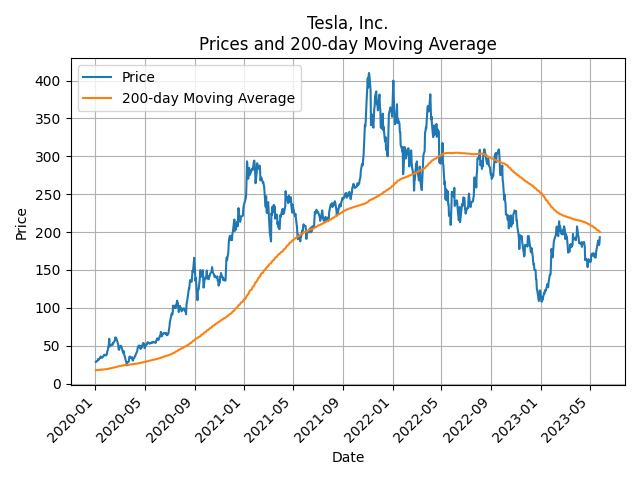
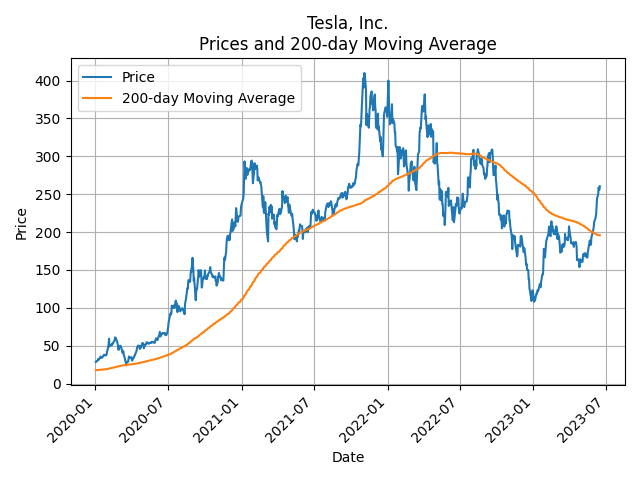
investment

diff --git a/investment.html b/investment.html
@@ -46,69 +46,124 @@
 								</header>
 								<!-- Lists -->
 								<h3>Introduction</h3>
-								<p>During every Chinese New Year, I receive Ang Bao money from my parents, grandparents, and other relatives and friends. I have been investing
-									this money in tech stocks such as Netflix, Tesla, Microsoft, Tencent, and others. Following the tech boom in 2020, I made significant profits.
-									However, I experienced a significant loss when the market underwent a drawdown towards the end of 2021.</p>
-								<p>To mitigate such drawdowns and participate in market rallies, I turned to YouTube for guidance. There are numerous stock trading videos that teach
-									strategies to avoid drawdowns and identify market rallies. One of the most popular tools recommended is the Simple Moving Average (SMA or MA) with a period
-									of 200 days. Many content creators advertised SMA 200 as a miracle, able to participate in the market rallies while avoid drawdowns. I was skeptical about that
-									and would like to build a backtest model to test this popular strategy using Python.</p>
-								<p>After carefully backtesting the SMA strategies, a clear disparity emerges. Investment videos, particularly those seeking to attract paying customers, often emphasize
-									a fabricated SMA strategy that showcases remarkably high returns. This can lead to unrealistic expectations. In contrast, the genuine SMA profit, which is rarely disclosed,
-									provides a more realistic perspective. These exaggerated claims underscore the importance of critically evaluating and scrutinizing investment advice.</p>
-								<h3>Method</h3>
-								<p>The Simple Moving Average (SMA or MA) trading strategy is a popular technical analysis approach used by traders to identify potential
-									trend reversals or entry/exit points in financial markets. The strategy involves calculating the average price of an asset over a specified
-									period of time and using it as a reference for making trading decisions.</p>
+								<p>During every Chinese New Year, I receive some money from my parents, grandparents, and other relatives and friends. I have been investing this money in technology stocks such as Apple, Tesla, Amazon, Microsoft, Tencent, and others. My simple investment strategy is to buy the stocks of the companies which a lot of us use the products of. Following the technology boom in 2020, I made significant profits. However, I experienced a significant loss when the market underwent a drawdown towards the end of 2021.</p>
+								<p>To mitigate such drawdowns and participate in market rallies, I turned to YouTube for guidance. There are numerous stock trading videos that teach strategies to avoid drawdowns and identify market rallies. One of the most popular tools recommended is the Simple Moving Average (SMA or MA) with a period of 200 days. Many content creators advertised SMA 200 as a miracle, able to participate in the market rallies while avoiding drawdowns. I was sceptical about that as it sounded too good to be true and I built a backtest model to test this popular strategy using Python.</p>
+								<p>After carefully backtesting the SMA strategies, a clear disparity emerges. Investment videos, particularly those seeking to attract paying customers, often emphasize a wrongly backtested SMA strategy that showcases remarkably high returns. This can lead to unrealistic expectations. In contrast, the correctly backtested SMA profit, which is rarely disclosed, provides a more realistic perspective. </p>
+								<p>I hope my careful research and backtest can help many investors become more careful while surrounded by much unsound paid investment advice. In addition, the backtest framework can be used for testing other trading strategies, or even apply AI models on it in the future. It again shows I become much more resourceful with the help of Python programming.</p>
+								<h3>Data and Method</h3>
+								<p>The Simple Moving Average (SMA or MA) trading strategy is a popular technical analysis approach used by traders to identify potential trend reversals or entry/exit points in financial markets. The strategy involves calculating the average price of an asset over a specified period and using it as a reference for making trading decisions.</p>
 								<p>Here's how the Simple Moving Average trading strategy typically works:</p>
 								<ol>
-									<li>Select a time period: Determine the time period for calculating the moving average. Common choices include 50 days, 100 days, or 200 days.
-										In this example, I choose 200 days.</li>
-									<li>Calculate the moving average: Add up the daily prices of the stock over the selected time period and divide it by the number of days to get the
-										average. This forms the moving average line.</li>
-									<li>Monitor the price movement: Compare the current price of the stock with the moving average line. If the price crosses above the moving average line,
-										it may indicate a bullish signal, suggesting a potential uptrend. Conversely, if the price crosses below the moving average line, it may suggest a
-										bearish signal, indicating a potential downtrend.</li>
-									<li>Make trading decisions: If the price crosses above the moving average line, you should buy the stock to participate in the market rally;
-										if the price crosses below the moving average line, you should sell the stock to avoid drawdown.</li>
+									<li>Select a time period: Determine the time period for calculating the moving average. Common choices include 50 days, 100 days, or 200 days. In this example, I choose 200 days.</li>
+									<li>Calculate the moving average: Add up the daily prices of the stock over the selected time period and divide it by the number of days to get the average. This forms the moving average line.</li>
+									<li>Monitor the price movement: Compare the current price of the stock with the moving average line. If the price crosses above the moving average line, it may indicate a positive signal, suggesting a potential uptrend. Conversely, if the price crosses below the moving average line, it may suggest a negative signal, indicating a potential downtrend.</li>
+									<li>Make trading decisions: If the price crosses above the moving average line, you should buy the stock to participate in the market rally; if the price crosses below the moving average line, you should sell the stock to avoid drawdown.</li>
 								</ol>
-								<h3>Data</h3>
-								<p>The yfinance package is a powerful tool in Python for accessing and downloading historical stock market data. It allows users to fetch data directly from
-									Yahoo Finance. To download stock data using yfinance, first, you need to install the yfinance package using pip or any other package manager. Once installed,
-									you can import the yfinance module in your Python script. To fetch stock data, simply
-									specify the ticker symbol for the desired stock and the desired time period. For example, you can retrieve historical data for Tesla by using the command:
-									data = yf.download('TSLA', start='2022-01-01', end='2022-12-31'). This will download the stock data for Tesla from January 1, 2022, to December 31, 2022.
-									The downloaded data can then be used for analysis, visualization, or any other tasks related to stock market research. </p>
+								<p>The yfinance (Yahoo Finance) package is a powerful tool in Python for downloading historical stock market data. It allows users to fetch data directly from Yahoo Finance. To illustrate, I show the prices of Tesla and Microsoft from 2020-01-01 to 2023-06-16.</p>
+								<!-- Image -->
+
+								<style>
+									.image-caption {
+									  text-align: center;
+									  font-style: italic;
+									  }
+								  </style>
+
+								  <div class="box alt">
+									<div class="row gtr-50 gtr-uniform">
+									  <div class="col-6">
+										<figure>
+										  <span class="image fit">
+											<img src="images/Tesla, Inc._prices.png" alt="" />
+										  </span>
+										</figure>
+									  </div>
+									  <div class="col-6">
+										<figure>
+										  <span class="image fit">
+											<img src="images/Microsoft Corporation_prices.png" alt="" />
+										  </span>
+										</figure>
+									  </div>
+									</div>
+								  </div>
 								<h3>Results</h3>
-								<div class="image main"><img src="images/Netflix, Inc._200ma.png" alt="" /></div>
-								<p>In the plot displayed above, I have depicted the daily price movement of my preferred stock, Netflix, from January 2020 to May 2023. Additionally, the 200-day moving
-									average line has been included in the graph. By observing the plot, it becomes evident that when the stock prices rise above the moving average line from beginning of 2020
-									to end of 2021 and from end of 2022 to May 2023, it serves as a clear bullish signal, and you can make quite some money by holding this stock. Conversely, when the price
-									crosses below the moving average
-									line from end of 2021 to end 2022, it signifies a bearish signal, suggesting a potential drawdown, and you should sell this stock. Utilizing this approach, making investment
-									decisions becomes straightforward, and we can make a lot of profit. The strategy involves purchasing the stock when the price
-									is above the 200-day moving average line and selling it when the price drops below the same moving average line. </p>
-								<p>The following graph is what all these youtubers hope to achieve. The orange line represents the PnL of the SMA 200 strategy, while the blue line represents the PnL of the
-									buy-and-hold strategy. The buy-and-hold strategy simply means I keep the stock throughout this period, and it serves as a benchmark to assess any dynamic trading strategy.
-									As shown by the following plot, the moving average strategy makes significant profit than simply holding the stock. Thus, we always participate in the market rally and avoid market drawdown.
-									However, this performance line is not realistic and wrongly backtested. Thus, I name it as the fake SMA line as they are usually shown by many investment gurus in their YouTube videos. </p>
-								<div class="image main"><img src="images/Netflix, Inc._200ma_pnl1.png" alt="" /></div>
-								<p>After conducting a thorough backtest, the plot below illustrates the profit and loss (PnL) of the actual SMA 200 strategy. While the performance line still outperforms
-									the buy-and-hold strategy, it falls short of the performance depicted by the fake SMA performance line. This indicates that the real SMA 200 strategy does not live up to the
-									claims made by numerous investment gurus.</p>
-								<div class="image main"><img src="images/Netflix, Inc._200ma_pnl2.png" alt="" /></div>
-								<p>When examining the performance of the fake SMA, real SMA, and buy-and-hold strategies in a single plot, a distinct disparity becomes evident. The green line corresponds to
-									the fabricated SMA profit frequently emphasized in investment videos, particularly those aiming to entice viewers into paying for investment lessons. It portrays remarkably
-									higher returns, potentially creating unrealistic expectations. In contrast, the orange line represents the genuine SMA profit, a perspective seldom disclosed by individuals
-									within the investment community. The contrast between the two lines serves to emphasize the exaggerated claims made by select individuals, shedding light on the need for
-									critical evaluation and scrutiny when encountering such investment advice.</p>
-								<div class="image main"><img src="images/Netflix, Inc._200ma_pnl3.png" alt="" /></div>
-								<p>After conducting tests on this moving average strategy with other tech stocks (Tencent, Tesla, Apple, ...), it has become apparent that this approach does not significantly enhance performance compared
-									to simply holding the stock throughout the given period. Certainly, the strategy's performance falls considerably short of the claims made by many investment gurus on YouTube.</p>
-							<div class="image main"><img src="images/invest_graph1.gif" alt="" /></div>
-							<p></p>
-								<p>If this piqued your interest, and you want to try it out with other stocks as well, you could always just use this code and replace the variable Ticker with another stock.</p>
-								<p>Check my codes in GitHub:</p>
+								<div class="image main"><img src="images/Tesla, Inc._200ma.png" style="width: 80%; height: auto;"></div>
+								<p>In the plot displayed above, I have depicted the daily price movement of my favourite stock, Tesla, from January 2020 to Jun 2023. Additionally, the 200-day moving average line has been included in the graph. By observing the plot, it becomes evident that when the stock prices rise above the moving average line from beginning of 2020 to beginning of 2022 and just recently. It serves as a clear positive signal, and you can make quite some money if you hold this stock during this period. Conversely, when the price crosses below the moving average line from beginning of 2022 to recently, it signifies a negative signal, suggesting a potential drawdown, and you should sell this stock just when it happens. </p>
+								<p>It sounds quite easy to be successful in investing in stock markets. And it is what most youtubers hope to achieve as shown in the following graph. The orange line represents the profits and losses of the SMA 200 strategy, while the blue line represents the profits and losses of the buy-and-hold strategy. The buy-and-hold strategy simply means I keep the stock throughout this period, and it serves as a benchmark to assess any dynamic trading strategy. As shown by the following plot, the moving average strategy makes significant profit than simply holding the stock. Thus, we always participate in the market rally and avoid market drawdown.  </p>
+								<div class="image main"><img src="images/Tesla, Inc._200ma_pnl1.png" style="width: 80%; height: auto;"></div>
+								<p>However, during my careful backtest, I found out this performance line is not realistic and wrongly backtested. Many people misaligned the prices and signals. They forgot the signals are only known after the prices are available for the day. So, they can only trade the signal the next day and it means we should have shifted the signal by one day. As the below graph shows, this small mistake has a huge impact on the backtested performance. Thus, I name the above graph as the fake SMA line as they are usually shown by many so-called investment experts in their YouTube videos.</p>
+								<p>After conducting a careful backtest, the plot below illustrates the profit and loss (PnL) of the correctly backtested SMA 200 strategy. While the SMA still generated okay performance, it falls short of the performance of a simple buy-and-hold strategy. This indicates that the real SMA 200 strategy does not live up to the claims made by numerous investment gurus. We could have used the time and effort to do other useful things in life rather than trading in-out in the stock markets following this strategy.</p>
+								<div class="image main"><img src="images/Tesla, Inc._200ma_pnl2.png" style="width: 80%; height: auto;"></div>
+								<p>When examining the performance of the fake SMA, real SMA, and buy-and-hold strategies in a single plot, a distinct disparity becomes even more evident. The green line corresponds to the wrongly backtested SMA profit frequently emphasized in investment videos, particularly those aiming to entice viewers into paying for investment lessons. It portrays remarkably higher returns, potentially creating unrealistic expectations. In contrast, the orange line represents the correctly backtested SMA profit, a perspective seldom disclosed by individuals within the investment community.  The contrast between the two lines emphasizes the exaggerated claims made by some individuals in the investment community. It highlights the need for critical evaluation and scrutiny when encountering investment advice.</p>
+								<div class="image main"><img src="images/Tesla, Inc._200ma_pnl3.png" style="width: 80%; height: auto;"></div>
+								<p>After conducting tests on this moving average strategy with other technology stocks (Microsoft, Amazon, Apple, ...), it has become apparent that this approach does not always enhance performance compared to simply holding the stock throughout the given period. Certainly, the strategy's performance falls considerably short of the claims made by many investment gurus on YouTube.</p>
+							<!-- Image -->
+
+								<style>
+									.image-caption {
+									  text-align: center;
+									  font-style: italic;
+									  }
+								  </style>
+
+								  <div class="box alt">
+									<div class="row gtr-50 gtr-uniform">
+									  <div class="col-6">
+										<figure>
+										  <span class="image fit">
+											<img src="images/Apple Inc._200ma.png" alt="" />
+										  </span>
+										</figure>
+									  </div>
+									  <div class="col-6">
+										<figure>
+										  <span class="image fit">
+											<img src="images/Apple Inc._200ma_pnl3.png" alt="" />
+										  </span>
+										</figure>
+									  </div>
+									</div>
+								  </div>
+								<div class="box alt">
+									<div class="row gtr-50 gtr-uniform">
+									  <div class="col-6">
+										<figure>
+										  <span class="image fit">
+											<img src="images/Amazon.com, Inc._200ma.png" alt="" />
+										  </span>
+										</figure>
+									  </div>
+									  <div class="col-6">
+										<figure>
+										  <span class="image fit">
+											<img src="images/Amazon.com, Inc._200ma_pnl3.png" alt="" />
+										  </span>
+										</figure>
+									  </div>
+									</div>
+								  </div>
+								<div class="box alt">
+									<div class="row gtr-50 gtr-uniform">
+									  <div class="col-6">
+										<figure>
+										  <span class="image fit">
+											<img src="images/Microsoft Corporation_200ma.png" alt="" />
+										  </span>
+										</figure>
+									  </div>
+									  <div class="col-6">
+										<figure>
+										  <span class="image fit">
+											<img src="images/Microsoft Corporation_200ma_pnl3.png" alt="" />
+										  </span>
+										</figure>
+									  </div>
+									</div>
+								  </div>
+								<p>If this piques your interest, and you want to try it out with other stocks as well, you can always just use this code and replace the variable called “Ticker” with another stock. The code always update you with the up-to-date prices from Yahoo Finance. Also, if you are interested in the results for a different SMA window than 200 days, you can always just use this code and replace the variable called “ma_window” with another range.</p>
+								<p>To this end, this backtest framework can be used for testing other trading strategies, or even training AI models on it in the future. It again shows we become much more resourceful to solve real life problem with the help of Python programming.</p>
+								<p>Check my code in GitHub:</p>
 								<a href="https://github.com/theo-xiao-sg/investment_python" target="_blank" class="button">Source code</a>
 								<p>  </p>
 								<p>Or you can find the main code here below:</p>
